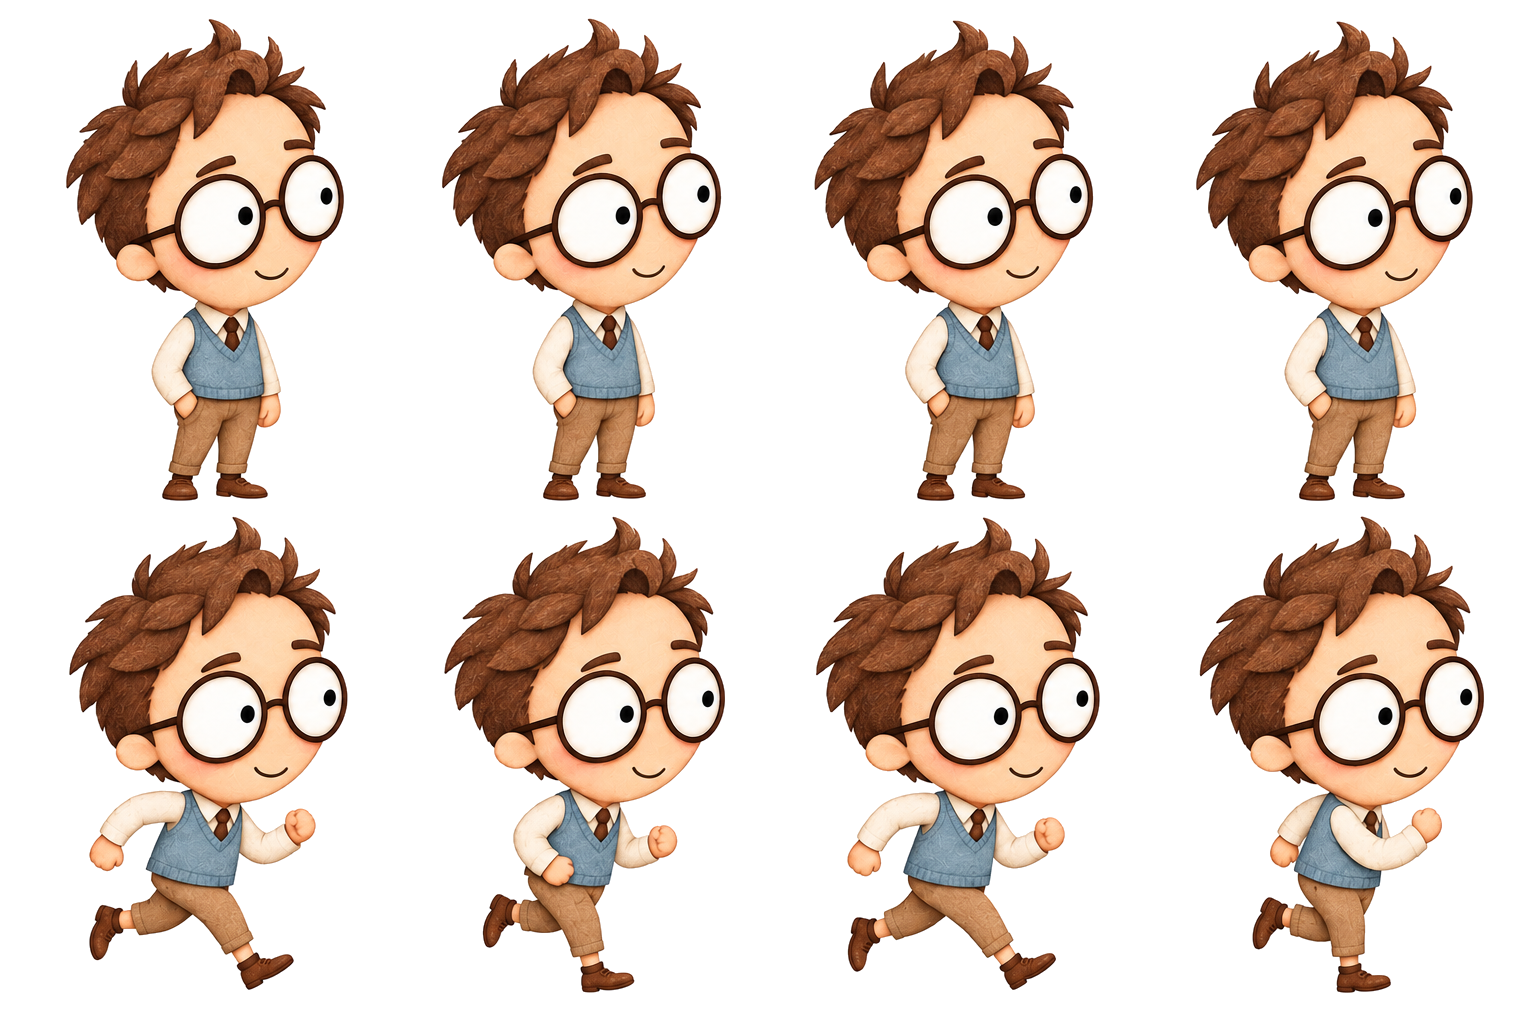
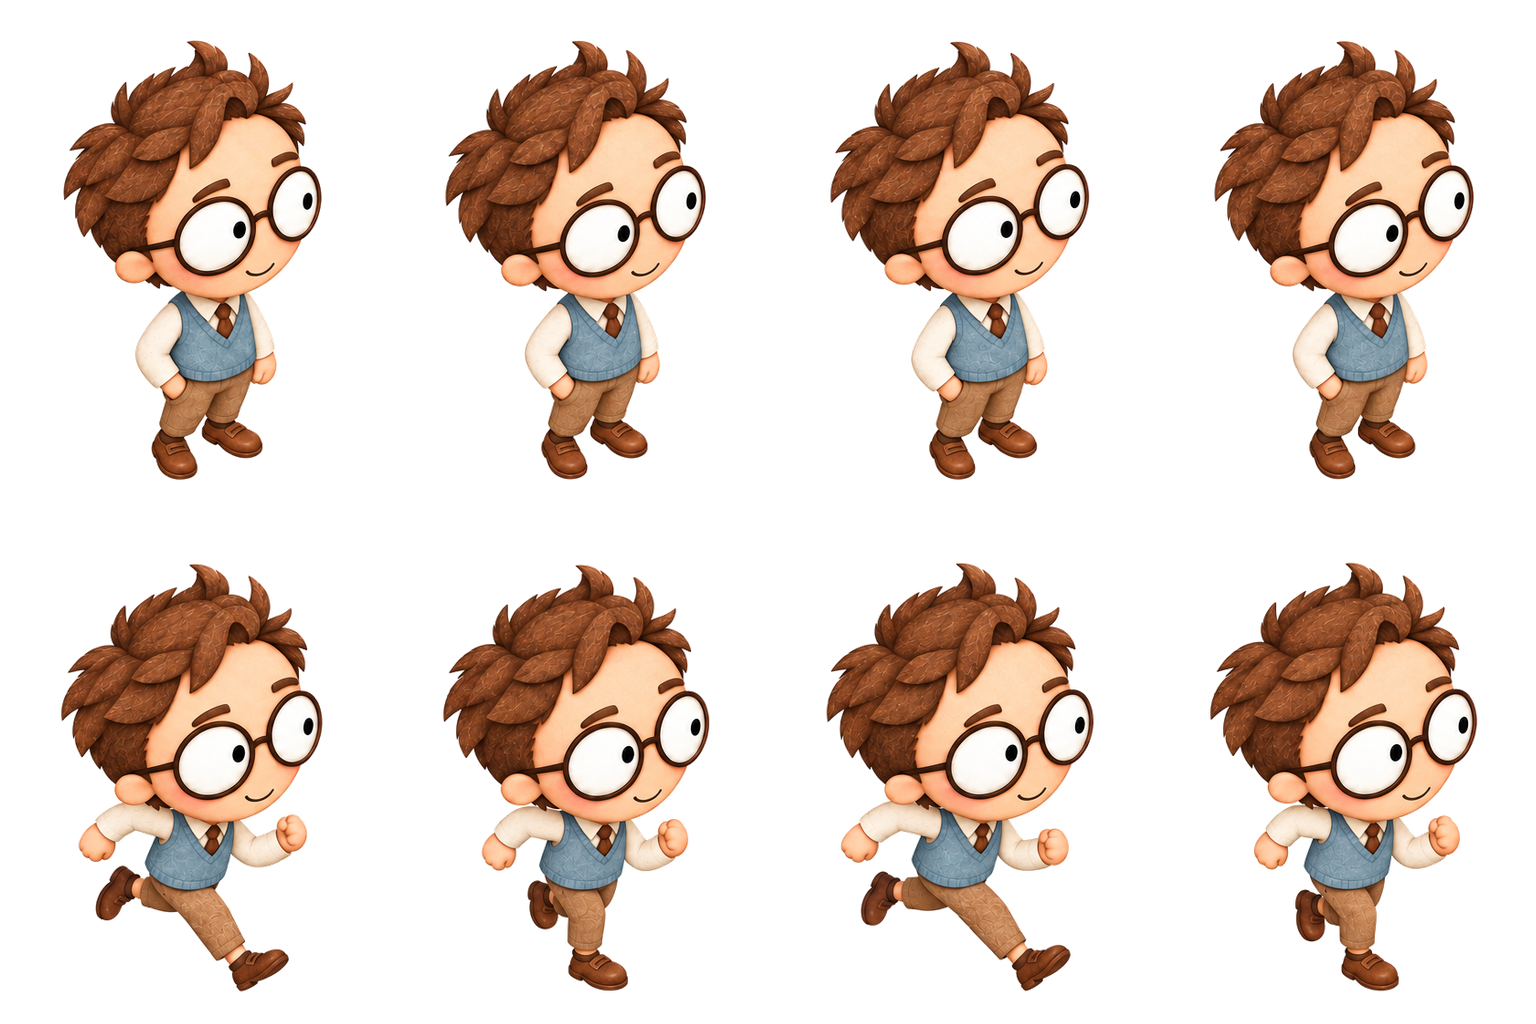
feat: refresh office stage artwork

diff --git a/apps/web/src/stage/stage.css b/apps/web/src/stage/stage.css
@@ -87,65 +87,53 @@
 }
 .stage-canvas {
   position: relative;
-  height: clamp(380px, 34vw, 490px);
+  display: flex;
+  justify-content: center;
   overflow: hidden;
   isolation: isolate;
-  background: #fffefa;
+  background: #e8bb8d;
 }
-.stage-zone {
-  position: absolute;
-  border: 1px solid #e7e9df;
-  border-radius: 30px;
-  background: #f6f7ef;
+.stage-map {
+  position: relative;
+  width: min(100%, 653px);
+  aspect-ratio: 1446 / 1087;
+  flex: 0 0 auto;
+  overflow: hidden;
+  background: url("/assets/backgrounds/office.png") center / 100% 100% no-repeat;
 }
-.stage-zone > span {
-  position: absolute;
-  top: 10px;
-  left: 15px;
-  font-size: 9px;
-  letter-spacing: 1px;
-  color: #89977e;
-}
-.work-zone {
-  left: 8%;
-  top: 9%;
-  width: 46%;
-  height: 36%;
-}
-.call-zone {
-  left: 60%;
-  top: 40%;
-  width: 35%;
-  height: 34%;
-  background: #eff4e9;
-  border-color: #d5dfcc;
-}
-.call-zone i {
-  display: block;
-  position: absolute;
-  inset: 35% 20% 10%;
-  border: 1px dashed #d2dec7;
-  border-radius: 50%;
-}
+.stage-location,
 .stage-entrance,
 .stage-waiting,
 .stage-report-spot {
   position: absolute;
   font-size: 9px;
-  color: #9aaa90;
   letter-spacing: 1px;
+  color: #6b321c;
+  padding: 4px 7px;
+  border: 1px solid rgb(124 57 27 / 28%);
+  border-radius: 999px;
+  background: rgb(255 244 222 / 82%);
+  box-shadow: 0 2px 8px rgb(91 45 18 / 10%);
+}
+.stage-boss-desk {
+  left: 63%;
+  top: 9%;
+}
+.stage-call-desk {
+  left: 46%;
+  top: 84%;
 }
 .stage-entrance {
-  left: 2%;
-  top: 87%;
+  left: 3%;
+  top: 91%;
 }
 .stage-waiting {
-  left: 24%;
-  top: 87%;
+  left: 11%;
+  top: 56%;
 }
 .stage-report-spot {
-  left: 42%;
-  top: 44%;
+  left: 53%;
+  top: 35%;
 }
 .stage-character {
   --sprite-width: clamp(64px, 7.5vw, 100px);
@@ -157,7 +145,6 @@
     left var(--move-duration, 600ms) linear,
     top var(--move-duration, 600ms) linear;
   pointer-events: none;
-  mix-blend-mode: multiply;
 }
 .sprite-window {
   width: 100%;
@@ -171,6 +158,7 @@
   height: 200%;
   max-width: none;
   user-select: none;
+  filter: drop-shadow(0 2px 2px rgb(71 34 16 / 28%));
 }
 .character-bubble {
   position: absolute;
@@ -199,6 +187,10 @@
   white-space: nowrap;
   font-size: 11px;
   color: #3b5031;
+  padding: 3px 7px;
+  border-radius: 8px;
+  background: rgb(255 250 237 / 80%);
+  box-shadow: 0 2px 7px rgb(71 34 16 / 10%);
 }
 .character-name small {
   display: block;
@@ -267,9 +259,6 @@
   .stage-panel {
     position: static;
   }
-  .stage-canvas {
-    height: 430px;
-  }
   .stage-character {
     --sprite-width: 95px;
   }
@@ -290,9 +279,6 @@
   .stage-toolbar h2 {
     font-size: 16px;
   }
-  .stage-canvas {
-    height: 350px;
-  }
   .stage-character {
     --sprite-width: 65px;
   }
@@ -305,6 +291,10 @@
   }
   .character-name small {
     font-size: 7px;
+  }
+  .stage-location,
+  .stage-report-spot {
+    display: none;
   }
   .stage-caption {
     padding: 10px 12px;

diff --git a/apps/web/src/stage/scene.js b/apps/web/src/stage/scene.js
@@ -1,12 +1,14 @@
 import { isTerminal } from "./feed.js";
 export const positions = {
-  boss: [25, 38],
-  report: [45, 38],
-  standby: [48, 77],
-  entry: [-12, 77],
-  waiting: [27, 77],
-  call: [76, 65],
-  watch: [86, 87],
+  boss: [82, 44],
+  report: [64, 49],
+  standby: [82, 82],
+  entry: [-12, 92],
+  foyer: [18, 92],
+  waiting: [18, 64],
+  aisle: [52, 64],
+  call: [52, 76],
+  watch: [68, 65],
 };
 export const activityLabels = {
   planning_started: "老闆正在安排下一通",
@@ -100,8 +102,10 @@ function framesFor(event, scene, snapshot) {
           phase: "entering",
           mastermind: actor("boss", { bubble: "已指派下一位職員" }),
         }),
-        frame(650, { persona: actor("waiting", { ...person, walking: true }) }),
-        frame(650, { persona: actor("call", { ...person, walking: true }) }),
+        frame(350, { persona: actor("foyer", { ...person, walking: true }) }),
+        frame(450, { persona: actor("waiting", { ...person, walking: true }) }),
+        frame(500, { persona: actor("aisle", { ...person, walking: true }) }),
+        frame(350, { persona: actor("call", { ...person, walking: true }) }),
       ];
     }
     case "call_started":
@@ -114,18 +118,24 @@ function framesFor(event, scene, snapshot) {
       ];
     case "call_ended":
       return [
-        frame(600, {
-          ...move("persona", "waiting", { facing: "left", bubble: "本通結束" }),
+        frame(250, {
+          ...move("persona", "aisle", { facing: "left", bubble: "本通結束" }),
           judge: actor("standby", { walking: true, bubble: "整理本通紀錄…" }),
           phase: "leaving",
         }),
-        frame(600, {
-          ...move("persona", "entry", { facing: "left", bubble: "本通結束" }),
+        frame(350, {
+          ...move("persona", "waiting", { facing: "left", bubble: "本通結束" }),
           judge: actor("report", {
             walking: true,
             facing: "left",
             bubble: "整理本通紀錄…",
           }),
+        }),
+        frame(300, {
+          ...move("persona", "foyer", { facing: "left", bubble: "本通結束" }),
+        }),
+        frame(300, {
+          ...move("persona", "entry", { facing: "left", bubble: "本通結束" }),
         }),
         frame(0, { persona: null }),
       ];

diff --git a/apps/web/src/stage/DrillStage.jsx b/apps/web/src/stage/DrillStage.jsx
@@ -101,7 +101,6 @@ export function CharacterSprite({ kind, character, reduced = false }) {
             style={{
               left: `${-(frame % 4) * 100}%`,
               top: `${-Math.floor(frame / 4) * 100}%`,
-              filter: `brightness(${sprite.brightness})`,
             }}
           />
         </div>
@@ -195,33 +194,30 @@ export function DrillStage({ drill, events, resetKey, connection }) {
         · {drill.busy ? "正在回覆…" : "對話進行中"} · Judge 監看中
       </div>
       <div className="stage-canvas" data-phase={scene.phase}>
-        <div className="stage-zone work-zone">
-          <span>01 / 調度區</span>
-        </div>
-        <div className="stage-zone call-zone">
-          <span>02 / 通話區</span>
-          <i />
-        </div>
-        <span className="stage-entrance">入口 →</span>
-        <span className="stage-waiting">候場</span>
-        <span className="stage-report-spot">回報位</span>
-        <CharacterSprite
-          kind="mastermind"
-          character={scene.mastermind}
-          reduced={reduced || hidden}
-        />
-        <CharacterSprite
-          kind="judge"
-          character={scene.judge}
-          reduced={reduced || hidden}
-        />
-        {scene.persona && (
+        <div className="stage-map">
+          <span className="stage-location stage-boss-desk">調度區</span>
+          <span className="stage-location stage-call-desk">通話區</span>
+          <span className="stage-entrance">入口 →</span>
+          <span className="stage-waiting">候場</span>
+          <span className="stage-report-spot">回報位</span>
           <CharacterSprite
-            kind="persona"
-            character={scene.persona}
+            kind="mastermind"
+            character={scene.mastermind}
             reduced={reduced || hidden}
           />
-        )}
+          <CharacterSprite
+            kind="judge"
+            character={scene.judge}
+            reduced={reduced || hidden}
+          />
+          {scene.persona && (
+            <CharacterSprite
+              kind="persona"
+              character={scene.persona}
+              reduced={reduced || hidden}
+            />
+          )}
+        </div>
       </div>
       <div className="stage-caption">
         <span

diff --git a/apps/web/src/stage/sprites.js b/apps/web/src/stage/sprites.js
@@ -1,12 +1,12 @@
 const feet = {
-  mastermind: [492, 492, 492, 492, 461, 470, 464, 469],
-  judge: [507, 507, 507, 507, 466, 468, 469, 467],
-  "persona-01": [490, 490, 490, 490, 466, 467, 466, 467],
-  "persona-02": [500, 500, 500, 500, 477, 479, 477, 480],
-  "persona-03": [498, 498, 498, 498, 475, 474, 474, 477],
+  mastermind: [480, 480, 480, 480, 480, 480, 480, 480],
+  judge: [481, 481, 481, 481, 481, 481, 481, 481],
+  "persona-01": [481, 481, 481, 481, 481, 480, 480, 480],
+  "persona-02": [481, 481, 481, 481, 481, 481, 481, 481],
+  "persona-03": [481, 481, 481, 481, 480, 481, 481, 481],
 };
 const source = "/assets/characters/warm/";
-// Original 384x512 cells. Offsets align the lowest foot within each walk frame.
+// Transparent 384x512 cells. Offsets align the lowest foot within each walk frame.
 export const sprites = Object.fromEntries(
   ["mastermind", "judge", "persona-01", "persona-02", "persona-03"].map(
     (key) => [
@@ -19,10 +19,8 @@ export const sprites = Object.fromEntries(
         rows: 2,
         idle: [0],
         walk: [4, 5, 6, 7],
-        frameMs: 120,
-        footOffsets: feet[key].map((y) => ((490 - y) / 512) * 100),
-        // Brighten only the rendered sprite; multiply blends its pale paper into the stage.
-        brightness: key === "persona-01" ? 1.1 : 1.02,
+        frameMs: 90,
+        footOffsets: feet[key].map((y) => ((481 - y) / 512) * 100),
       },
     ],
   ),
